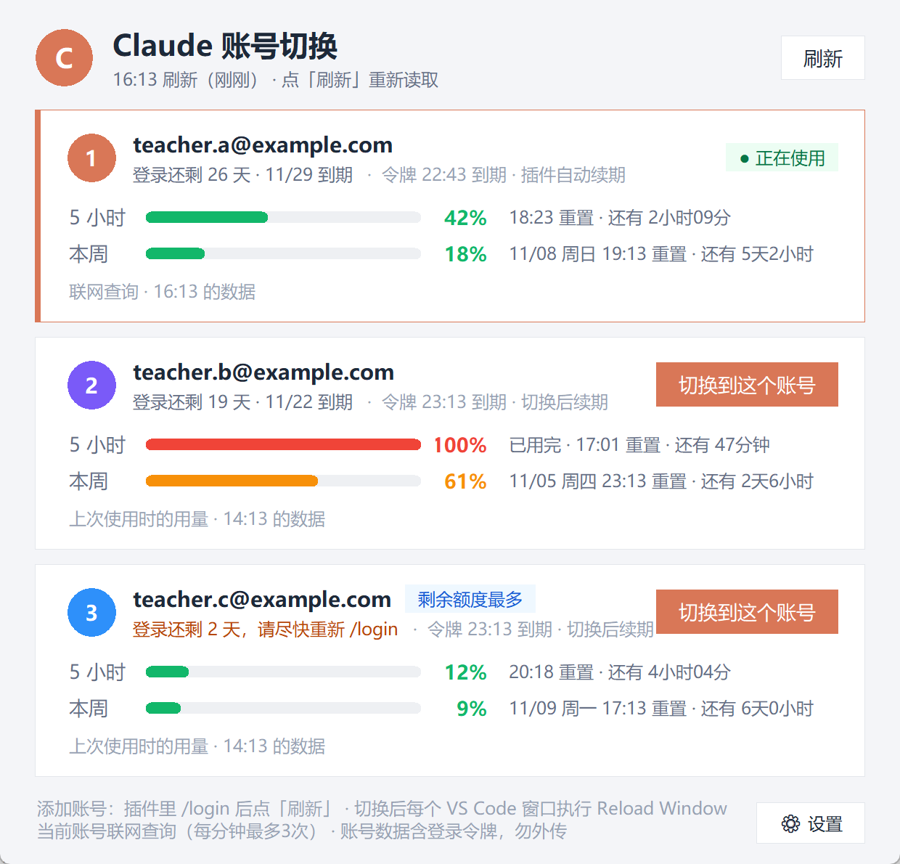
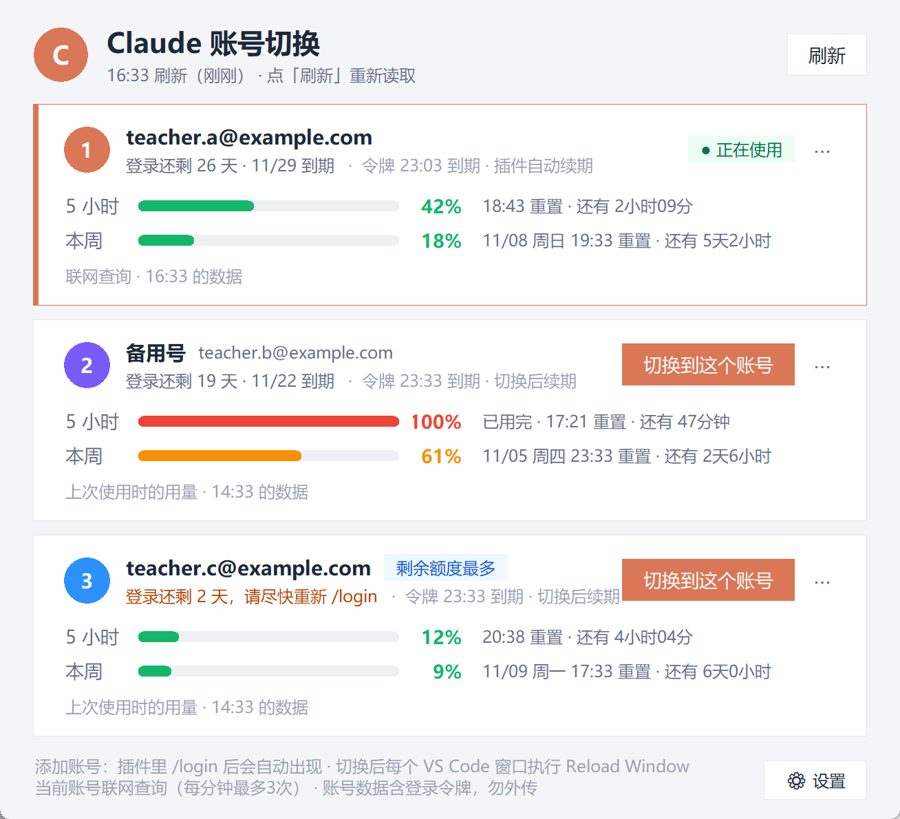
v1.3.0：账号管理、自动发现新登录、单元测试
- 卡片「⋯」菜单：备注名（settings.json 的 aliases，显示在邮箱前）、删除账号
  （删档案、用量记录和备注名；正在用的不能删）
- 每 2 秒看一眼 .claude.json / .credentials.json，登录账号、令牌或插件用量缓存变了就
  自动刷新（只读本机，不联网）：插件里 /login 新账号后马上出现，令牌被写乱时马上提示
- tests/test_core.py：12 个单元测试（账号不一致、限频、令牌过期不查询、切换保留其他设置、
  本机用量、备注名、删除），临时目录里跑，不碰真实账号、不联网
- README、使用说明同步

diff --git a/tests/test_core.py b/tests/test_core.py
@@ -1,0 +1,158 @@
+"""claude_switch.py 的单元测试。全部在临时目录里跑，不碰真实账号文件，也不联网。
+
+运行：python -m unittest discover tests
+"""
+
+import json
+import shutil
+import sys
+import tempfile
+import time
+import unittest
+from pathlib import Path
+
+sys.path.insert(0, str(Path(__file__).resolve().parent.parent))
+import claude_switch as cs  # noqa: E402
+
+FAR = 9e12  # 很远的将来（毫秒），表示令牌没过期
+
+
+def write(path, data):
+    path.parent.mkdir(parents=True, exist_ok=True)
+    path.write_text(json.dumps(data), encoding="utf-8")
+
+
+class Base(unittest.TestCase):
+    """把 claude_switch 里用到的路径都指到临时目录。"""
+
+    def setUp(self):
+        self.home = Path(tempfile.mkdtemp())
+        self.saved = {k: getattr(cs, k) for k in
+                      ("CRED", "CONF", "STORE", "PROFILES", "USAGE_CACHE", "SETTINGS", "ONLINE_LOG", "http_json")}
+        cs.CRED = self.home / ".claude" / ".credentials.json"
+        cs.CONF = self.home / ".claude.json"
+        cs.STORE = self.home / ".claude-accounts"
+        cs.PROFILES = cs.STORE / "profiles"
+        cs.USAGE_CACHE = cs.STORE / "usage-cache.json"
+        cs.SETTINGS = cs.STORE / "settings.json"
+        cs.ONLINE_LOG = cs.STORE / "online-log.json"
+        self.requests = []
+        cs.http_json = lambda url, token=None: self.requests.append(token) or {"five_hour": {"utilization": 10}}
+
+        self.A = {"accessToken": "a1", "refreshToken": "ra1", "refreshTokenExpiresAt": 111, "expiresAt": FAR}
+        self.B = {"accessToken": "b1", "refreshToken": "rb1", "refreshTokenExpiresAt": 222, "expiresAt": FAR}
+        write(cs.PROFILES / "a@x.com.json", {"claudeAiOauth": self.A, "oauthAccount": {"emailAddress": "a@x.com"}})
+        write(cs.PROFILES / "b@x.com.json", {"claudeAiOauth": self.B, "oauthAccount": {"emailAddress": "b@x.com"}})
+
+    def tearDown(self):
+        for k, v in self.saved.items():
+            setattr(cs, k, v)
+        shutil.rmtree(self.home, ignore_errors=True)
+
+    def login(self, cred, email, **conf):
+        write(cs.CRED, {"claudeAiOauth": cred, "mcpOAuth": {"keep": 1}})
+        write(cs.CONF, {"oauthAccount": {"emailAddress": email, "accountUuid": email}, **conf})
+
+    def profile_token(self, email):
+        return cs.load(cs.PROFILES / f"{email}.json")["claudeAiOauth"]["accessToken"]
+
+
+class MismatchTest(Base):
+    def test_normal_refresh_is_saved(self):
+        # Claude Code 续期后令牌变了，但登录有效期没变
+        self.login({**self.B, "accessToken": "b2", "refreshToken": "rb2"}, "b@x.com")
+        self.assertIsNone(cs.mismatch())
+        self.assertEqual(cs.save_current(), "b@x.com")
+        self.assertEqual(self.profile_token("b@x.com"), "b2")
+
+    def test_stale_session_token_is_not_saved(self):
+        # 没 Reload 的旧会话把 A 续期后的令牌写回，账号信息仍是 B
+        self.login({**self.A, "accessToken": "a9", "refreshToken": "ra9"}, "b@x.com")
+        self.assertEqual(cs.mismatch(), ("a@x.com", "b@x.com"))
+        self.assertIsNone(cs.save_current())
+        self.assertEqual(self.profile_token("b@x.com"), "b1")
+        self.assertEqual(cs.fetch_current_usage(), ("mismatch", None))
+        self.assertEqual(self.requests, [])
+
+    def test_fresh_login_and_new_account(self):
+        self.login({"accessToken": "b3", "refreshToken": "rb3", "refreshTokenExpiresAt": 333, "expiresAt": FAR}, "b@x.com")
+        self.assertEqual(cs.save_current(), "b@x.com")
+        self.login({"accessToken": "c1", "refreshToken": "rc1", "refreshTokenExpiresAt": 444, "expiresAt": FAR}, "c@x.com")
+        self.assertEqual(cs.save_current(), "c@x.com")
+        self.assertTrue((cs.PROFILES / "c@x.com.json").exists())
+
+    def test_switch_fixes_mismatch_and_keeps_other_settings(self):
+        self.login({**self.A, "accessToken": "a9"}, "b@x.com", numStartups=5)
+        cs.switch_to(cs.PROFILES / "a@x.com.json")
+        self.assertIsNone(cs.mismatch())
+        self.assertEqual(cs.current()[0], "a@x.com")
+        self.assertEqual(cs.load(cs.CONF)["numStartups"], 5)
+        self.assertEqual(cs.load(cs.CRED)["mcpOAuth"], {"keep": 1})
+        self.assertTrue((cs.STORE / "claude.json.bak").exists())
+
+
+class OnlineTest(Base):
+    def test_three_per_minute(self):
+        self.login(self.A, "a@x.com")
+        results = [cs.fetch_current_usage()[0] for _ in range(5)]
+        self.assertEqual(results, ["ok", "ok", "ok", "limited", "limited"])
+        self.assertEqual(len(self.requests), 3)
+
+    def test_limit_window_slides(self):
+        self.login(self.A, "a@x.com")
+        write(cs.ONLINE_LOG, [time.time() - 61] * 3)  # 一分钟前的不算
+        self.assertEqual(cs.fetch_current_usage()[0], "ok")
+
+    def test_expired_token_is_never_refreshed(self):
+        self.login({**self.A, "expiresAt": 0}, "a@x.com")
+        self.assertEqual(cs.fetch_current_usage(), ("wait", None))
+        self.assertEqual(self.requests, [])
+
+    def test_result_is_cached_as_online(self):
+        self.login(self.A, "a@x.com")
+        cs.fetch_current_usage()
+        usage, source, _ = cs.get_usage("a@x.com", True)
+        self.assertEqual(source, "online")
+        self.assertEqual(usage["five_hour"]["utilization"], 10)
+        self.assertEqual(cs.get_usage("a@x.com", False)[1], "last")
+
+
+class LocalUsageTest(Base):
+    def test_snapshot_only_when_cache_belongs_to_current_account(self):
+        cache = {"accountUuid": "someone-else", "fetchedAtMs": 1000, "utilization": {"five_hour": {"utilization": 50}}}
+        self.login(self.A, "a@x.com", cachedUsageUtilization=cache)
+        self.assertFalse(cs.snapshot_usage())
+        self.assertEqual(cs.get_usage("a@x.com", True), (None, None, None))
+        self.login(self.A, "a@x.com", cachedUsageUtilization={**cache, "accountUuid": "a@x.com"})
+        self.assertTrue(cs.snapshot_usage())
+        self.assertEqual(cs.get_usage("a@x.com", True)[1], "live")
+
+    def test_watch_signature_ignores_unrelated_changes(self):
+        self.login(self.A, "a@x.com", numStartups=1)
+        sig = cs.watch_signature()
+        self.login(self.A, "a@x.com", numStartups=2)
+        self.assertEqual(cs.watch_signature(), sig)
+        self.login(self.B, "b@x.com", numStartups=2)
+        self.assertNotEqual(cs.watch_signature(), sig)
+
+
+class AccountTest(Base):
+    def test_alias_set_and_clear(self):
+        cs.set_alias("A@x.com", "  工作号 ")
+        self.assertEqual(cs.aliases(), {"a@x.com": "工作号"})
+        cs.set_alias("a@x.com", "")
+        self.assertEqual(cs.aliases(), {})
+
+    def test_delete_account(self):
+        self.login(self.A, "a@x.com")
+        cs.remember_usage("b@x.com", {"five_hour": {}}, 1, "online")
+        cs.set_alias("b@x.com", "备用")
+        self.assertFalse(cs.delete_account("a@x.com"))  # 正在用的不能删
+        self.assertTrue(cs.delete_account("b@x.com"))
+        self.assertFalse((cs.PROFILES / "b@x.com.json").exists())
+        self.assertNotIn("b@x.com", cs.load(cs.USAGE_CACHE))
+        self.assertEqual(cs.aliases(), {})
+
+
+if __name__ == "__main__":
+    unittest.main()

diff --git a/i18n.py b/i18n.py
@@ -18,6 +18,15 @@ STRINGS = {
         "switched": "已切换到 {email}。\n每个 VS Code 窗口按 Ctrl+Shift+P → Reload Window 后生效。",
         "switch_failed": "切换失败：{e}",
         "toast_countdown": "{n} 秒后关闭",
+        "menu_alias": "备注名…",
+        "menu_delete": "删除这个账号…",
+        "menu_delete_current": "正在使用的账号不能删除",
+        "alias_title": "备注名",
+        "alias_prompt": "给 {email} 起个备注名（留空则去掉备注）：",
+        "delete_title": "删除账号",
+        "delete_confirm": "确定删除 {email} 吗？\n\n只删除本工具保存的登录信息、用量记录和备注名，"
+                          "不影响 Claude 账号本身。以后要用，在插件里重新 /login 即可。",
+        "deleted": "已删除 {email}。",
         "mismatch": "登录信息对不上：令牌是 {owner} 的，账号却显示 {email}（多半有 VS Code 窗口没 Reload）。已暂停自动保存。\n"
                     "请在每个 VS Code 窗口 Reload Window 后点「刷新」，或直接切换到想用的账号。",        "best": "剩余额度最多",
         "in_use": "● 正在使用",
@@ -51,7 +60,7 @@ STRINGS = {
         "note_http": "联网查询失败（HTTP {arg}）；先显示本机数据",
         "note_error": "联网查询失败（{arg}）；先显示本机数据",
         "empty": "还没有保存任何账号。\n先在 Claude 插件里 /login，再点「刷新」。",
-        "footer": "添加账号：插件里 /login 后点「刷新」 · 切换后每个 VS Code 窗口执行 Reload Window",
+        "footer": "添加账号：插件里 /login 后会自动出现 · 切换后每个 VS Code 窗口执行 Reload Window",
         "footer_online": "当前账号联网查询（每分钟最多3次） · 账号数据含登录令牌，勿外传",
         "footer_local": "只读本机、不联网 · 账号数据含登录令牌，勿外传",
         # 设置
@@ -89,6 +98,15 @@ STRINGS = {
         "switched": "{email} に切り替えました。\n各 VS Code ウィンドウで Ctrl+Shift+P → Reload Window を実行すると反映されます。",
         "switch_failed": "切り替えに失敗しました：{e}",
         "toast_countdown": "{n} 秒後に閉じます",
+        "menu_alias": "表示名…",
+        "menu_delete": "このアカウントを削除…",
+        "menu_delete_current": "使用中のアカウントは削除できません",
+        "alias_title": "表示名",
+        "alias_prompt": "{email} の表示名（空欄で表示名を削除）：",
+        "delete_title": "アカウント削除",
+        "delete_confirm": "{email} を削除しますか？\n\nこのツールが保存したログイン情報・使用量の記録・表示名だけを削除します。"
+                          "Claude のアカウント自体には影響しません。再び使うときは拡張機能で /login してください。",
+        "deleted": "{email} を削除しました。",
         "mismatch": "ログイン情報が不一致：トークンは {owner}、アカウントは {email} です（Reload していないウィンドウがある可能性）。自動保存を停止中。\n"
                     "各 VS Code ウィンドウで Reload Window 後に「更新」を押すか、使いたいアカウントに切り替えてください。",        "best": "残り最多",
         "in_use": "● 使用中",
@@ -122,7 +140,7 @@ STRINGS = {
         "note_http": "オンライン取得に失敗しました（HTTP {arg}）。ローカルのデータを表示中",
         "note_error": "オンライン取得に失敗しました（{arg}）。ローカルのデータを表示中",
         "empty": "保存済みのアカウントがありません。\nClaude 拡張機能で /login してから「更新」を押してください。",
-        "footer": "アカウント追加：拡張機能で /login 後に「更新」 · 切替後は各 VS Code ウィンドウで Reload Window",
+        "footer": "アカウント追加：拡張機能で /login すると自動で表示 · 切替後は各 VS Code ウィンドウで Reload Window",
         "footer_online": "使用中のみオンライン取得（1分3回まで） · データにはトークンが含まれます（共有禁止）",
         "footer_local": "通信なし · データにはトークンが含まれます（共有禁止）",
         # 設定

diff --git a/claude_switch.py b/claude_switch.py
@@ -252,3 +252,50 @@ def load_settings():
 def save_settings(settings):
     STORE.mkdir(parents=True, exist_ok=True)
     dump(SETTINGS, settings)
+
+
+def set_alias(email, name):
+    """给账号起备注名（存在 settings.json 的 aliases 里）；name 为空就删掉备注。"""
+    settings = load_settings()
+    aliases = settings.get("aliases") or {}
+    if name and name.strip():
+        aliases[email.lower()] = name.strip()
+    else:
+        aliases.pop(email.lower(), None)
+    save_settings({**settings, "aliases": aliases})
+
+
+def aliases():
+    return {k.lower(): v for k, v in (load_settings().get("aliases") or {}).items()}
+
+
+def delete_account(email):
+    """删除保存的账号：档案、记下的用量、备注名。不能删正在用的账号。返回是否删了。"""
+    if (current()[0] or "").lower() == email.lower():
+        return False
+    path = PROFILES / f"{email}.json"
+    if not path.exists():
+        return False
+    path.unlink()
+    with _cache_lock:
+        try:
+            saved = load(USAGE_CACHE)
+        except (OSError, ValueError):
+            saved = None
+        if saved and saved.pop(email.lower(), None) is not None:
+            dump(USAGE_CACHE, saved)
+    set_alias(email, None)
+    return True
+
+
+def watch_signature():
+    """「登录 / 用量有没有变」的指纹：账号邮箱、令牌、Claude Code 用量缓存时间。
+    Claude Code 经常改 .claude.json 的其他内容，只看这几样，免得无关改动也触发刷新。"""
+    try:
+        conf = load(CONF)
+        cred = load(CRED).get("claudeAiOauth") or {}
+    except (OSError, ValueError):
+        return None
+    cache = conf.get("cachedUsageUtilization") or {}
+    return ((conf.get("oauthAccount") or {}).get("emailAddress"), cred.get("accessToken"),
+            cred.get("refreshToken"), cache.get("fetchedAtMs"))

diff --git a/README.md b/README.md
@@ -14,6 +14,8 @@
 - **登录状态**：登录（约 4 周有效）还剩几天，快到期时变色提醒；短期令牌（约 8 小时）由 Claude Code 自己续期。
 - **手动刷新**：点「刷新」重新读取；标题下显示上次刷新时间。
 - **设置**：右下角「⚙ 设置」，可切换界面语言（中文 / 日本語，立即生效）和「联网查询当前账号的用量」开关；「关于」里有版本号、「检查更新」和「打开下载页」。
+- **账号管理**：每张卡片的「⋯」菜单可以设置备注名、删除不用的账号（正在用的不能删）。
+- **自动发现新账号**：窗口开着时每 2 秒看一眼本机登录文件（不联网），在插件里 `/login` 新账号后马上出现；旧会话把令牌写乱时也会马上提示。
 - **只开一个窗口**：已经开着时再双击，会把原窗口调到最前面。
 - **单个 exe**：约 12 MB，不用装 Python，第一次运行在桌面建快捷方式。
 
@@ -58,6 +60,7 @@ pythonw claude_switch_gui.pyw          # 直接运行
 python -m pip install pyinstaller
 python build.py                        # 生成 dist\ClaudeSwitch.exe 和 zip
 python make_icon.py                    # 改图标时才需要（要 Pillow）
+python -m unittest discover tests      # 单元测试（临时目录里跑，不碰真实账号，不联网）
 ```
 
 | 文件 | 说明 |
@@ -66,6 +69,7 @@ python make_icon.py                    # 改图标时才需要（要 Pillow）
 | `claude_switch_gui.pyw` | tkinter 界面（主窗口 + 设置窗口） |
 | `i18n.py` | 界面文字（中文 / 日本語），新增文字两种语言都要加 |
 | `build.py` | PyInstaller 单文件打包 + 压缩包 |
+| `tests/test_core.py` | 单元测试：账号不一致、限频、切换保留其他设置、本机用量、备注名和删除 |
 | `make_icon.py` / `icon.ico` | 图标 |
 | `使用说明.txt` | 随 exe 一起发布的说明 |
 
